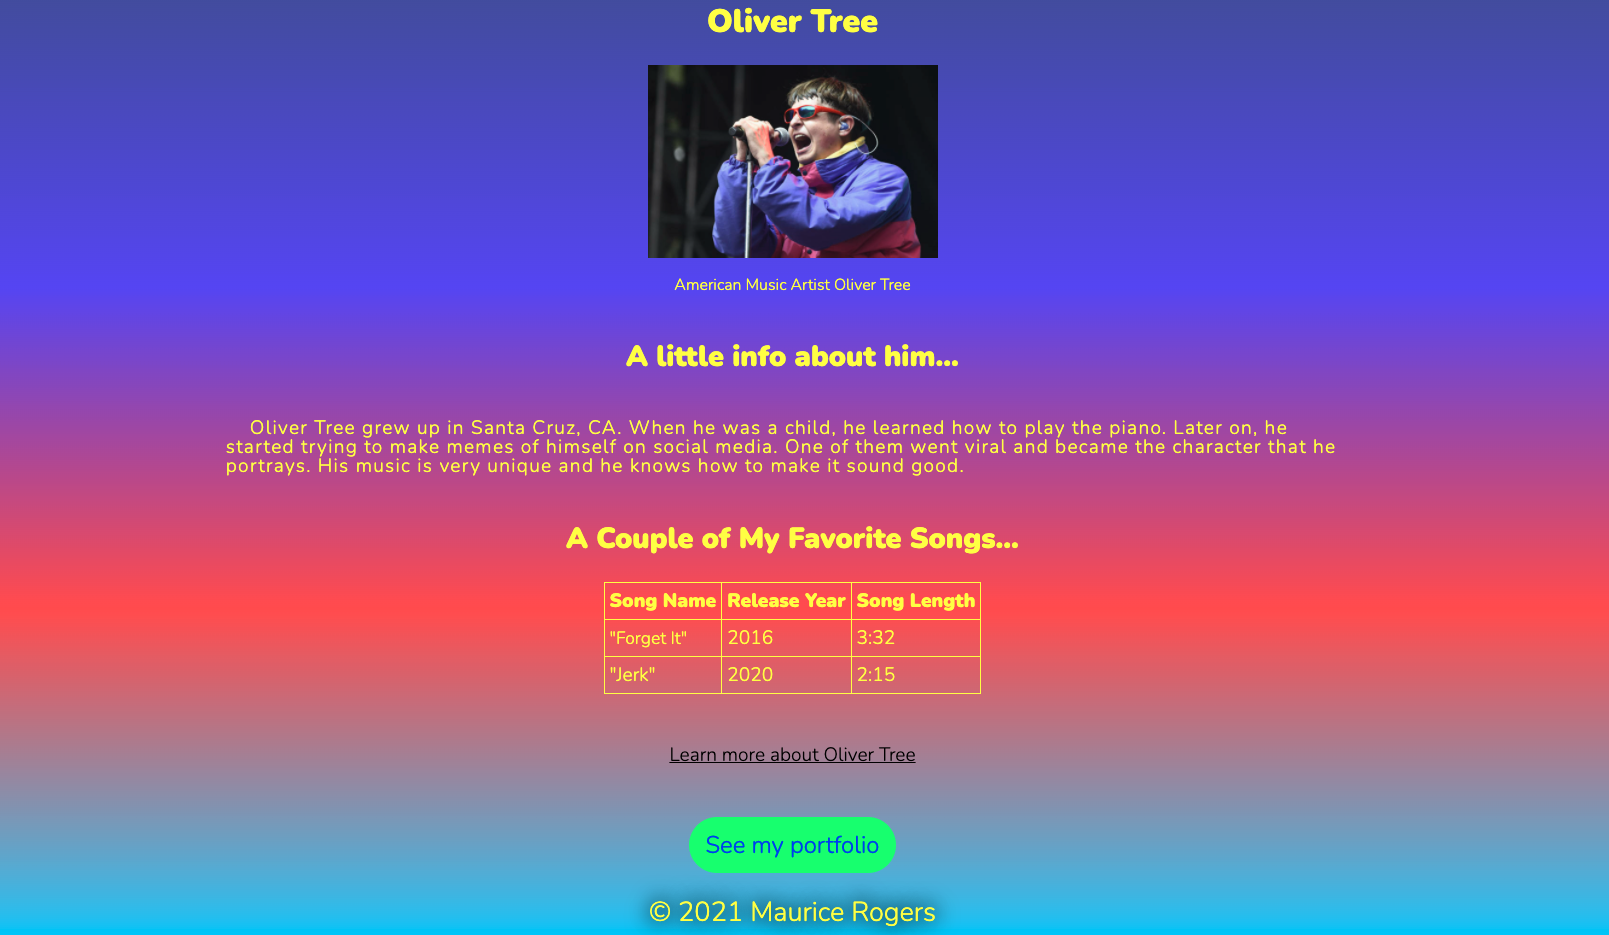
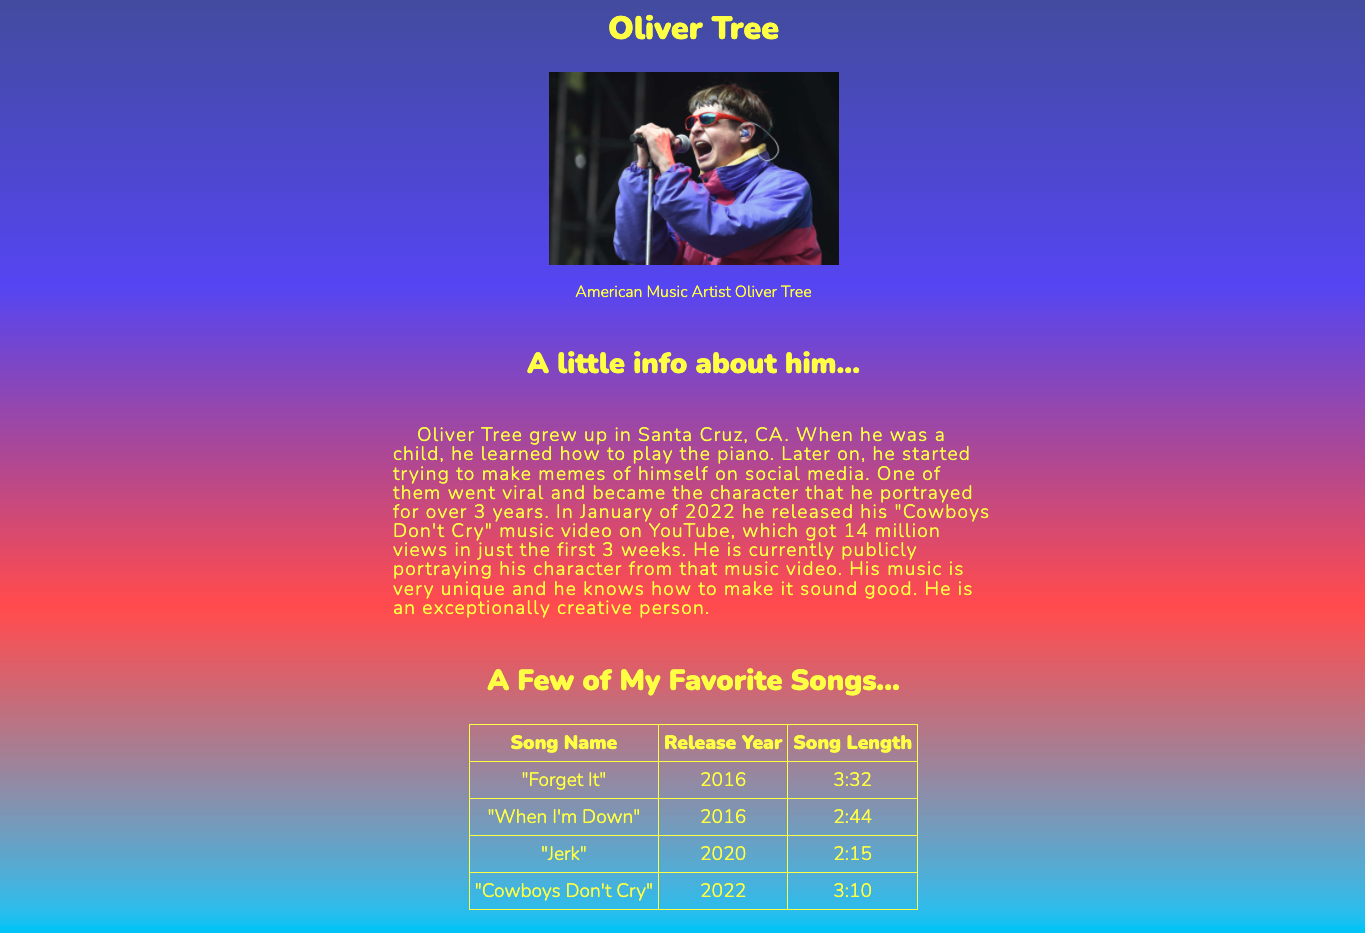
improved design and functionality

diff --git a/tech-doc.css b/tech-doc.css
@@ -31,7 +31,8 @@ html{
     background-color: blue;
     color: white;
     font-size: 1.9rem;
-    padding: 1rem 2rem;
+    width: 255px;
+    padding: .5em 1em;
     text-align: center;
     border-radius: 10px;
     margin-bottom: 1rem;
@@ -41,12 +42,12 @@ html{
   .nav-link:focus{
     background-color: rgba(0,0,255,.5);
   }
-  .nav-list {
+  .nav-list,
+  .ftr-nav-list {
     list-style: none;
     display: flex;
     flex-direction: column;
-    align-items: flex-start;
-    justify-content: center;
+    align-items: center;
   }
   /*NAVBAR CSS ENDS HERE*/
   section li{
@@ -62,7 +63,7 @@ html{
     margin-top: 0;
     background-color: rgba(0,0,0,.5);
     border-radius: 2rem;
-    padding: 2em;
+    padding: 1em;
   }
   h2{
     text-align: center;
@@ -73,11 +74,7 @@ html{
     margin-right: auto;
     line-height: 1.13em;
   }
-  @media (max-width: 1023px){
-    .disclaimer{
-      display: none;
-    }
-  }
+ 
   code {
     background-color: rgba(255, 255, 255, .15);
     color:lime;
@@ -94,22 +91,37 @@ html{
   footer{
     margin-top: 2rem;
   }
+  
   .ftr-nav-link{
     text-decoration: none;
     text-align: center;
     background-color: rgb(63, 210, 58);
     color: rgb(255, 255, 255);
-    font-size: 2.8rem;
+    font-size: 2.2rem;
     padding: .5em .7em;
     border-radius: 2em;
+    margin-left: .8em;
   }
+
+  .nav-list{
+    margin-left: -2em;
+  }
+
   .copy-right{
     font-weight: 200;
-    font-size: 2.5rem;
+    font-size: 2.2rem;
+    text-align: center;
     text-shadow: -5px 5px 20px rgba(0, 0, 0,1), 0px -5px 20px rgba(0, 0, 0, 1), 5px 0px 20px rgba(0, 0, 0, 1);
   }
-  footer{
-    margin-top: 4rem;
+  @media (min-width: 1024px){
+    .ftr-nav-visible{
+      display: none;
+    }
+  }
+  @media (max-width: 1023px){
+    .disclaimer{
+      display: none;
+    }
   }
   @media (min-width: 1024px){
   /*NAVBAR CSS STARTS HERE*/
@@ -137,8 +149,6 @@ html{
     }
     
   }
-
-  
   @media (min-width: 640px){
     .code{
       font-size: 2rem;

diff --git a/technical-documentation.html b/technical-documentation.html
@@ -1,4 +1,3 @@
-<!-- Make this about a specific programming feature -->
 <!DOCTYPE html>
 <html lang="en">
 <head>
@@ -10,6 +9,7 @@
     <title>Technical Documentation Page</title>
     <link href="tech-doc.css" rel="stylesheet">
     <link href="./tech-doc-carousel/carousel-styles.css" rel="stylesheet" />
+    <script defer src="./tech-doc-carousel/carousel.js"></script>
 </head>
 <body class="alpha-bg">
   <div class="container">
@@ -25,7 +25,7 @@
         </ul>
       </nav>
       <h3 class="disclaimer">
-        This webpage is just meant to be a sample of my frontend development ability. I actually know a lot more about JS but I'm not trying to reinvent the wheel when MDN has JS documentation covered. Thank you for reading.❤
+        This webpage is just meant to be a sample of my frontend development ability. I actually know a lot more than this about JS but I'm not trying to reinvent the wheel when MDN has JS documentation covered. Thank you for reading.❤
       </h3>
       </header>
         
@@ -149,6 +149,15 @@
           </div>
           <footer>
             <nav>
+              <ul class="nav-list ftr-nav-visible">
+                <li class="nav-link whatBtn">What is JavaScript?</li>
+                <li class="nav-link howBtn">How to learn JS</li>
+                <li class="nav-link varBtn">Variables</li>       
+                <li class="nav-link condBtn">Conditionals</li>         
+                <li class="nav-link domBtn">DOM Manipulation</li>
+              </ul>
+            </nav>
+            <nav>
               <a class="ftr-nav-link" href="index.html">
                 See my portfolio
               </a>
@@ -157,6 +166,5 @@
                 &copy; 2021 Maurice Rogers
               </p>
         </footer>
-        <script src="./tech-doc-carousel/carousel.js"></script>
 </body>
 </html>

diff --git a/tech-doc-carousel/carousel.js b/tech-doc-carousel/carousel.js
@@ -7,11 +7,11 @@
         }
     
     /* nav classes buttons */
-    const whatBtn = document.querySelector(".whatBtn");
-    const howBtn = document.querySelector(".howBtn");
-    const varBtn = document.querySelector(".varBtn");
-    const condBtn = document.querySelector(".condBtn");
-    const domBtn = document.querySelector(".domBtn");
+    const whatBtn = document.querySelectorAll(".whatBtn");
+    const howBtn = document.querySelectorAll(".howBtn");
+    const varBtn = document.querySelectorAll(".varBtn");
+    const condBtn = document.querySelectorAll(".condBtn");
+    const domBtn = document.querySelectorAll(".domBtn");
     /* nav classes buttons end here*/
     
     whatBtn.addEventListener('click', function(){

diff --git a/index-carousel/carousel.js b/index-carousel/carousel.js
@@ -20,14 +20,14 @@ aboutBtn.addEventListener('click', function(){
 projectsBtn.forEach(el => {
     el.addEventListener('click', function(){
     hideAllSlides();
-        slidePosition = 1;
+    slidePosition = 1;
     slides[slidePosition].classList.add('carousel-item-visible');
     window.scrollTo({ top: 0, behavior: 'smooth' });
     })
 })
 contactBtn.addEventListener('click', function(){
     hideAllSlides();
-        slidePosition = 2;
+    slidePosition = 2;
     slides[slidePosition].classList.add('carousel-item-visible');
 })
 

diff --git a/tech-doc-carousel/carousel-styles.css b/tech-doc-carousel/carousel-styles.css
@@ -4,7 +4,7 @@
 }
 .carousel-item-visible{
     display: block;
-    animation: fadeInVisibility .5s;
+    animation: fadeInVisibility 1s;
 }
 
 
